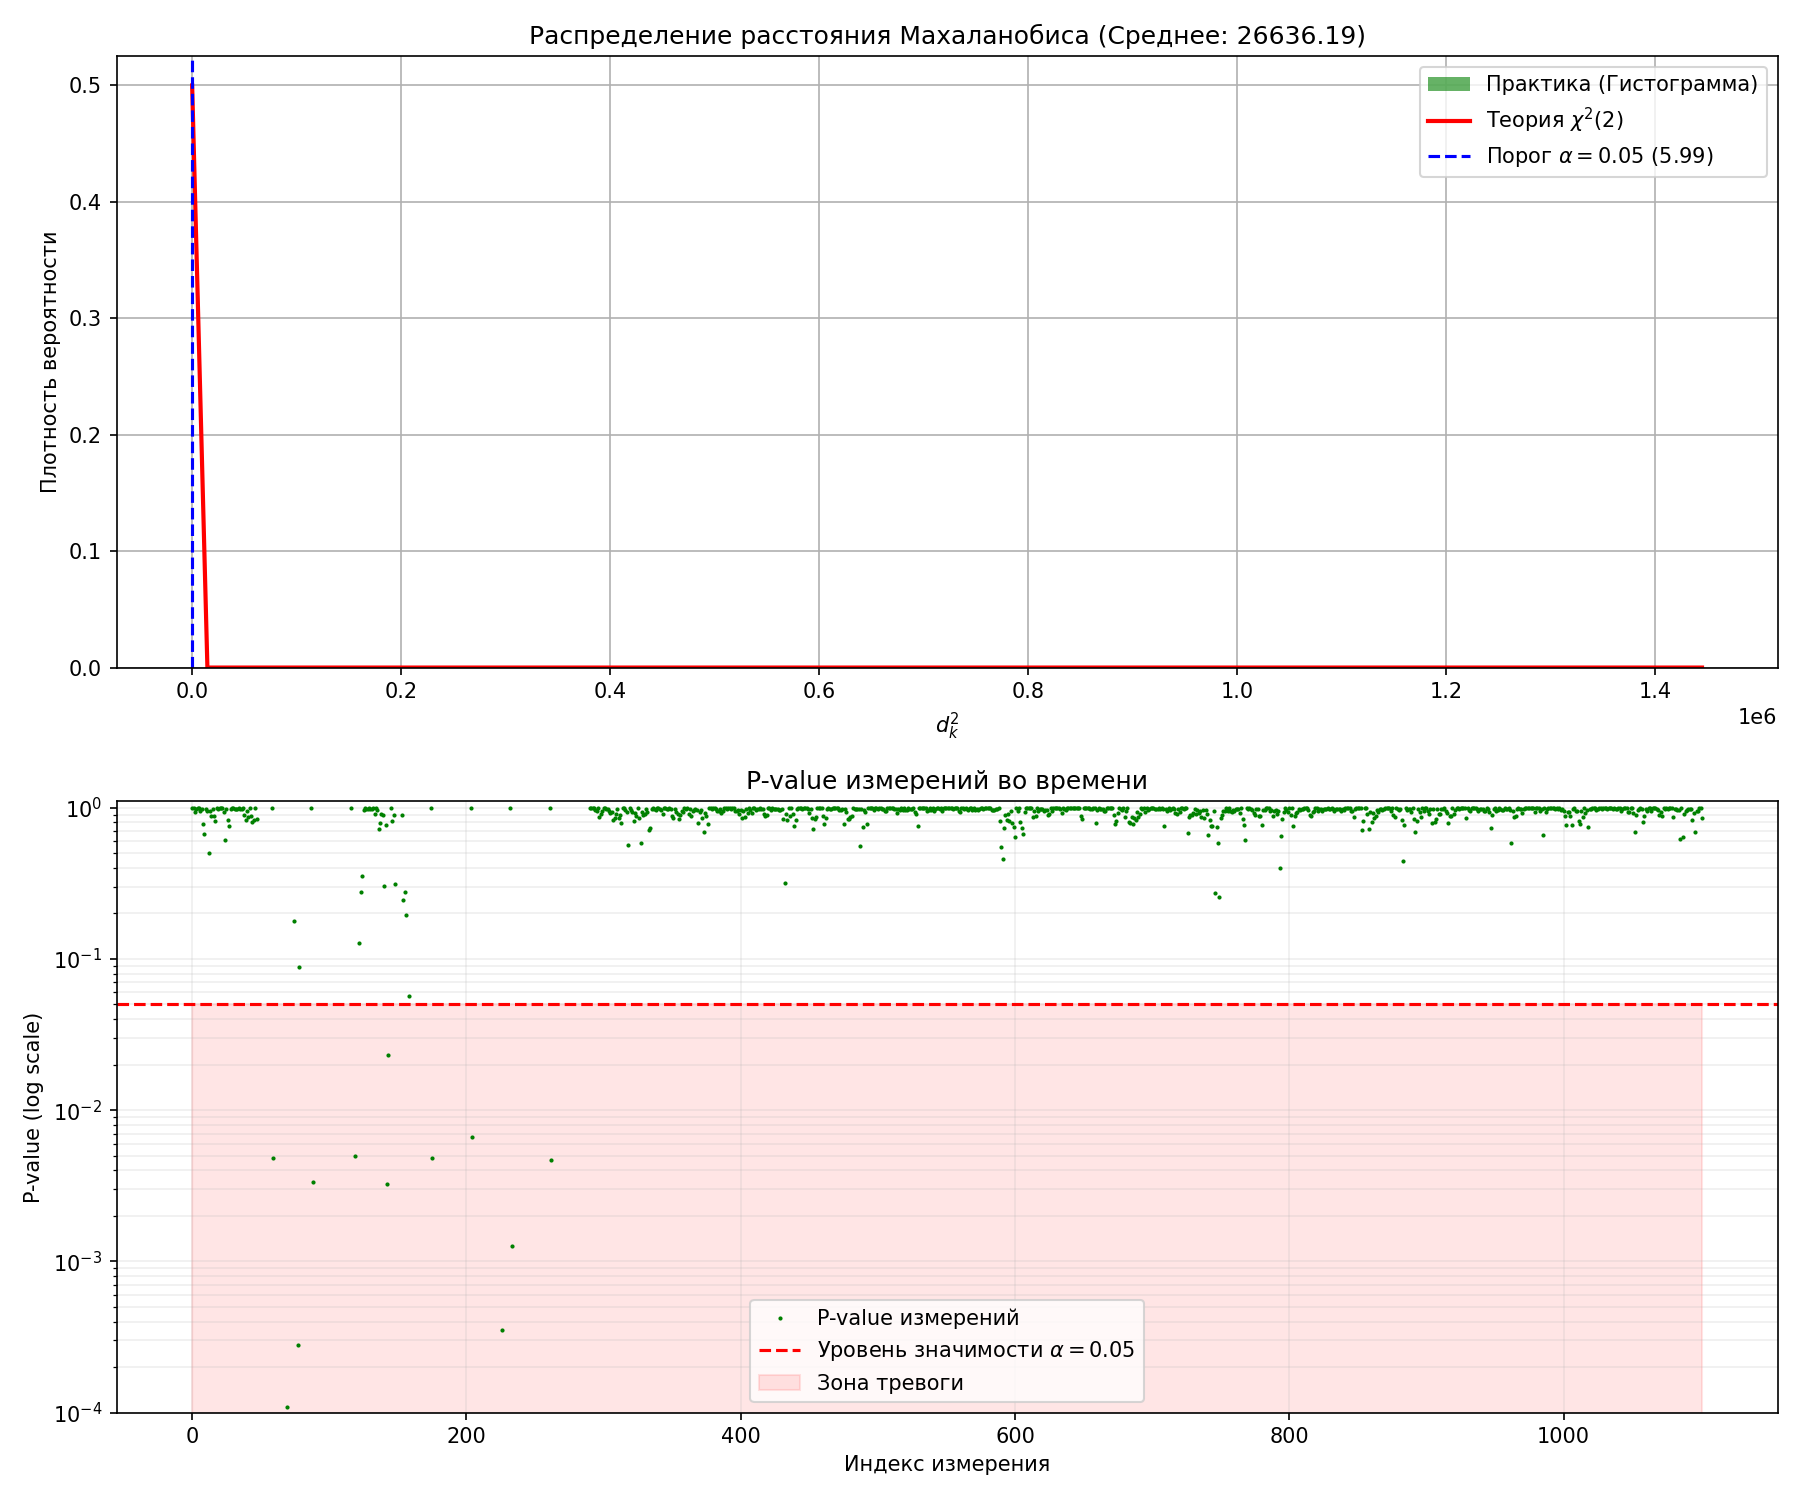
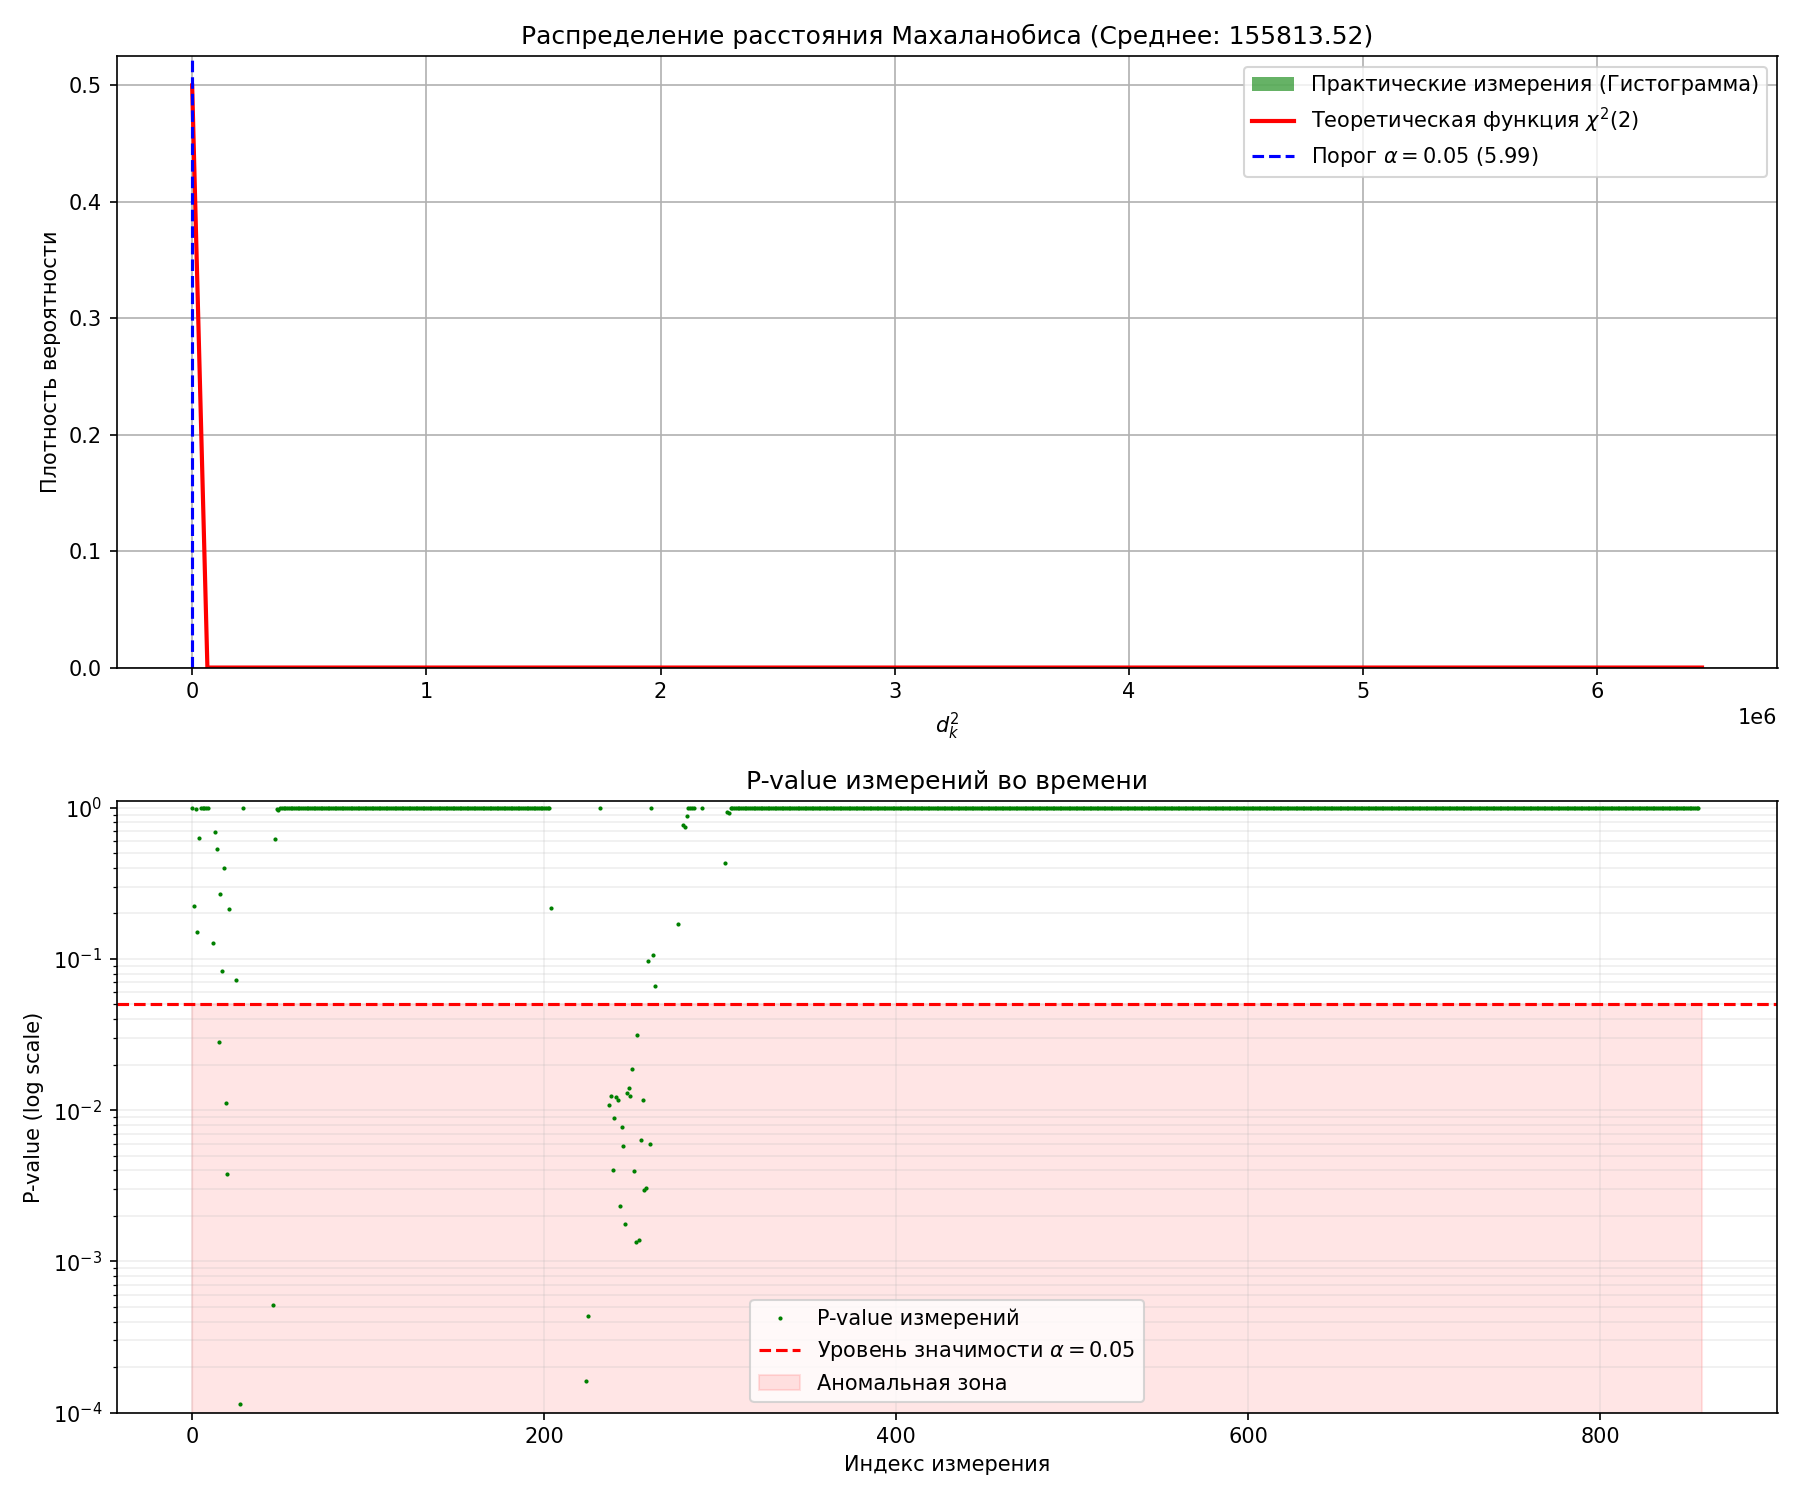
Визуализации

diff --git a/app/working/Тест фильтра Калмана.py b/app/working/Тест фильтра Калмана.py
@@ -21,7 +21,7 @@ def analyze_filter_consistency(
     Args:
         mahalanobis_sq: Массив квадратов расстояний Махаланобиса.
         alpha: Уровень значимости.
-        save_path: Путь типа pathlib.Path.
+        save_path: Путь pathlib.Path.
                    Если указан, сохраняет .png и .txt по этому пути.
                    Если None, выводит график на экран и текст в консоль.
     """
@@ -55,16 +55,16 @@ def analyze_filter_consistency(
 
     if practical_mean > theoretical_mean * 1.5:
         report_lines.append(">>> ВНИМАНИЕ: Практическое среднее значительно выше теоретического.")
-        report_lines.append("    Возможные причины: занижены шумы (sigma_acc/sigma_meas) или объект маневрирует.")
+        report_lines.append("    Возможные причины: занижены шумы (sigma_acc/sigma_meas) или аномальное измерение.")
     elif practical_mean < theoretical_mean * 0.5:
         report_lines.append(">>> ВНИМАНИЕ: Практическое среднее значительно ниже теоретического.")
-        report_lines.append("    Возможные причины: завышены шумы (фильтр 'тупит').")
+        report_lines.append("    Возможные причины: завышены шумы (фильтр не реагирует на данные).")
     else:
         report_lines.append(">>> Статистика соответствует теории.")
 
     report_lines.append(f"\nТеоретический порог (Chi2): {threshold_chi2:.2f}")
     report_lines.append(f"Обнаружено выбросов: {outliers_count} ({practical_outlier_rate*100:.2f}%)")
-    report_lines.append(f"Ожидаемый % выбросов (Alpha): {alpha*100:.2f}%")
+    report_lines.append(f"Ожидаемая доля выбросов (Alpha): {alpha:.2f}%")
 
     report_text = "\n".join(report_lines)
 
@@ -76,12 +76,12 @@ def analyze_filter_consistency(
     if viz_limit < 10: viz_limit = 10
 
     axs[0].hist(
-        valid_data, bins=50, range=(0, viz_limit), density=True, alpha=0.6, color='g', label='Практика (Гистограмма)'
+        valid_data, bins=50, range=(0, viz_limit), density=True, alpha=0.6, color='g', label='Практические измерения (Гистограмма)'
     )
 
     x_range = np.linspace(0, viz_limit, 100)
     theoretical_pdf = chi2.pdf(x_range, df=2)
-    axs[0].plot(x_range, theoretical_pdf, 'r-', lw=2, label=r'Теория $\chi^2(2)$')
+    axs[0].plot(x_range, theoretical_pdf, 'r-', lw=2, label=r'Теоретическая функция $\chi^2(2)$')
 
     axs[0].axvline(
         threshold_chi2, color='b', linestyle='--', label=r'Порог $\alpha={}$ ({:.2f})'.format(alpha, threshold_chi2)
@@ -97,7 +97,7 @@ def analyze_filter_consistency(
     axs[1].semilogy(p_values, 'g.', markersize=2, label='P-value измерений')
     axs[1].axhline(alpha, color='r', linestyle='--', label=r'Уровень значимости $\alpha={}$'.format(alpha))
 
-    axs[1].fill_between(range(len(p_values)), 0, alpha, color='red', alpha=0.1, label='Зона тревоги')
+    axs[1].fill_between(range(len(p_values)), 0, alpha, color='red', alpha=0.1, label='Аномальная зона')
 
     axs[1].set_title('P-value измерений во времени')
     axs[1].set_xlabel('Индекс измерения')
@@ -155,8 +155,8 @@ if __name__ == "__main__":
     # stop_i = 151893
 
     # Смешанный участок 2
-    # start_i = 132860
-    # stop_i = 134000
+    start_i = 132860
+    stop_i = 134000
 
     # Эталонный участок 1
     # start_i = 142507
@@ -166,13 +166,13 @@ if __name__ == "__main__":
     # start_i = 134000
     # stop_i = 140659
 
-    # Шумовой участок 1
+    # Аномальный участок 1
     # start_i = 132910
     # stop_i = 132981
 
-    # Шумовой участок 2
-    start_i = 141609
-    stop_i = 142498
+    # Аномальный участок 2
+    # start_i = 141609
+    # stop_i = 142498
 
     test_df = df[start_i:stop_i]
     lon, lat, dt = processor.get_lon_lat(test_df)
@@ -221,7 +221,7 @@ if __name__ == "__main__":
         ]
     )
 
-    pict_path = project_root / 'anomaly_1.png'
+    pict_path = project_root / 'mixed_2.png'
     if len(all_mahalanobis_sq) > 0:
         analyze_filter_consistency(np.array(all_mahalanobis_sq), alpha=0.05, save_path=pict_path)
     else:
